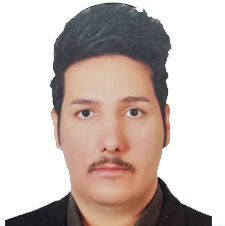
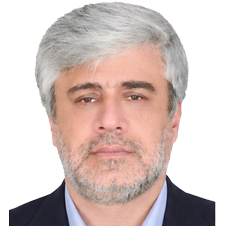
Add files via upload

diff --git a/card.tehran.html b/card.tehran.html
@@ -655,7 +655,7 @@ img.qrcode-img-front[_ngcontent-xxe-c127] {
 <img _ngcontent-xxe-c127="" class="personnal-img" src="Pic.1.jpg">
 
 
-<div _ngcontent-xxe-c127="" class="print-content"><label _ngcontent-xxe-c127="" style="margin-bottom: 3px;">ساعد دولتی</label><label _ngcontent-xxe-c127="">3392562335</label><label _ngcontent-xxe-c127="">1010294185</label><label _ngcontent-xxe-c127="">عمران</label><label _ngcontent-xxe-c127="">1394/09/15</label><label _ngcontent-xxe-c127="">0103093167</label></div><label _ngcontent-xxe-c127="" class="back-validity-date">1407/12/29</label><!----><!----></div><div _ngcontent-xxe-c127="" class="print-preview-image preview-back"><img _ngcontent-xxe-c127="" src="membership-card-watermark-back.png" style="width: 100%;"><label _ngcontent-xxe-c127="" class="back-full-name" style="margin-bottom: 3px;">SAED DOLATI</label><label _ngcontent-xxe-c127="" class="back-national">3392562335</label><label _ngcontent-xxe-c127="" class="back-membership-code">1010294185</label><label _ngcontent-xxe-c127="" class="back-license-no">0103093167</label><img _ngcontent-xxe-c127="" class="qrcode-img-back" src="data.tehran_image_png;base….png"><!----><!----></div></div><!----><!----></div></app-membership-card-print><!----></nzm-membership-card-register-page><!----></section></bpms-nezam-public-layout><!----></app-public-layout><!----></app-root>
+<div _ngcontent-xxe-c127="" class="print-content"><label _ngcontent-xxe-c127="" style="margin-bottom: 3px;">سیدعلی اصغر موسوی حسین آبادی</label><label _ngcontent-xxe-c127="">5099199232</label><label _ngcontent-xxe-c127="">1010294185</label><label _ngcontent-xxe-c127="">عمران</label><label _ngcontent-xxe-c127="">1379/09/15</label><label _ngcontent-xxe-c127="">0103093167</label></div><label _ngcontent-xxe-c127="" class="back-validity-date">1407/12/29</label><!----><!----></div><div _ngcontent-xxe-c127="" class="print-preview-image preview-back"><img _ngcontent-xxe-c127="" src="membership-card-watermark-back.png" style="width: 100%;"><label _ngcontent-xxe-c127="" class="back-full-name" style="margin-bottom: 3px;">Seyedaliasghar Mousavihosseinabadi</label><label _ngcontent-xxe-c127="" class="back-national">5099199232</label><label _ngcontent-xxe-c127="" class="back-membership-code">1010294185</label><label _ngcontent-xxe-c127="" class="back-license-no">0103093167</label><img _ngcontent-xxe-c127="" class="qrcode-img-back" src="data.tehran_image_png;base….png"><!----><!----></div></div><!----><!----></div></app-membership-card-print><!----></nzm-membership-card-register-page><!----></section></bpms-nezam-public-layout><!----></app-public-layout><!----></app-root>
   <!-- /#wrapper -->
   <!-- jQuery -->
   <script src="jquery.min.js.download"></script>
